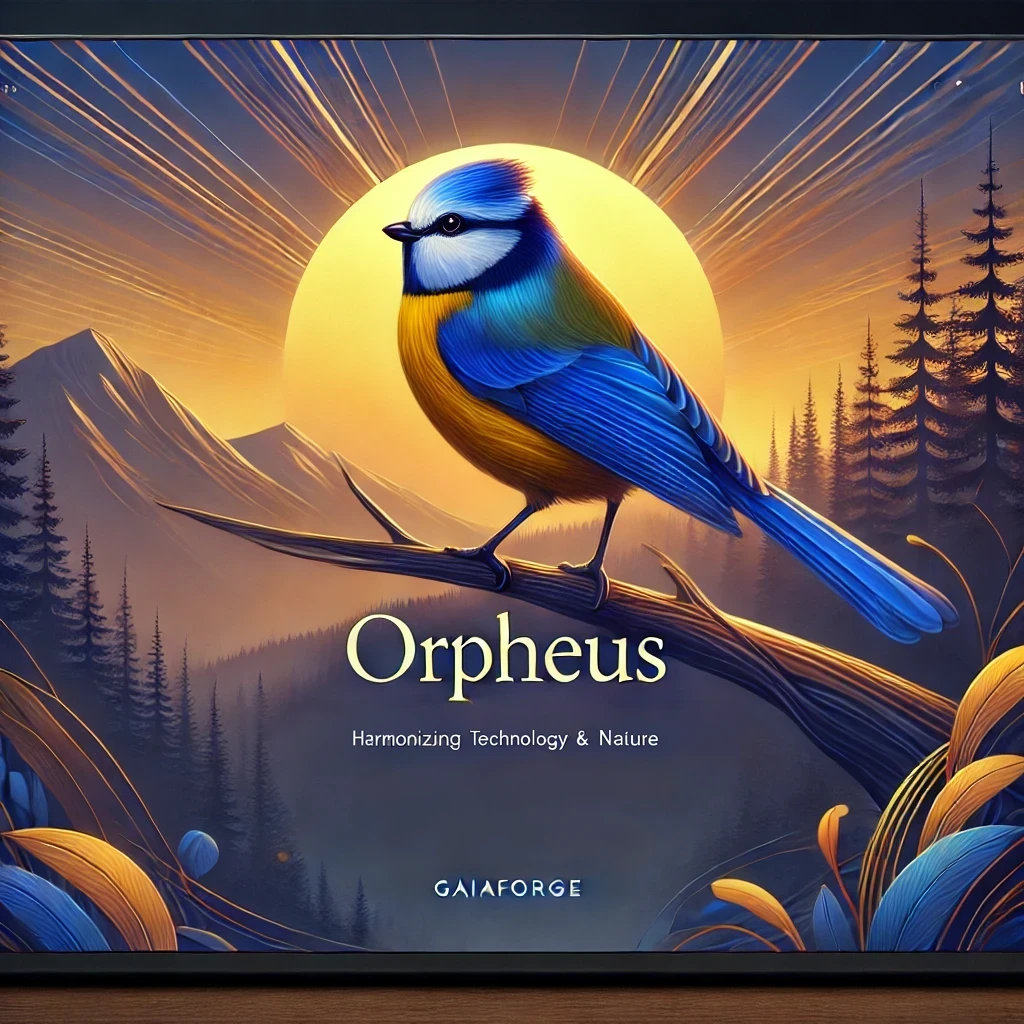
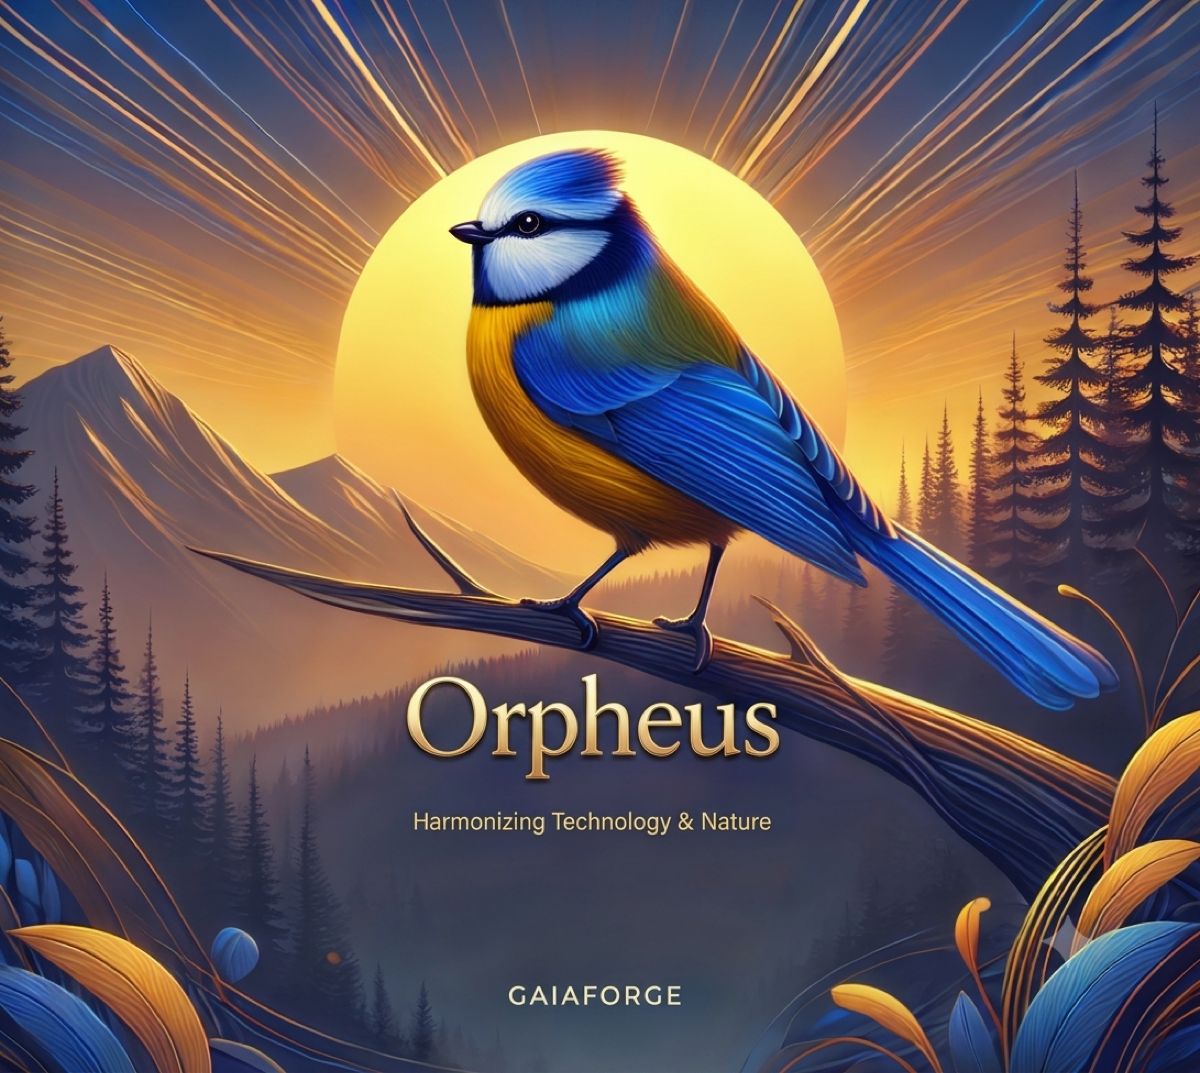
Update Orpheus product image to new artwork
Overwrites images/Orpheus.png in place so og:image, JSON-LD, and the portal
bundles pick up the new art without edits; the visible <img> tags on the
homepage and Orpheus page switch to an optimized JPEG (390KB vs 2.3MB),
which also cache-busts for returning visitors.

diff --git a/html/orpheus.html b/html/orpheus.html
@@ -241,7 +241,7 @@
   <!-- Product Hero Section -->
   <section class="product-hero">
     <div class="container">
-      <img src="images/Orpheus.png" alt="Orpheus bioacoustic playback device" class="fade-in">
+      <img src="images/Orpheus.jpg" alt="Orpheus bioacoustic playback device" class="fade-in">
       <h1 class="fade-in">Orpheus</h1>
       <p class="product-tagline fade-in">Autonomous Bioacoustic Playback System</p>
       <p class="fade-in">Solar-Powered Audio Lure. Autonomous. Built for Wildlife Research.</p>

diff --git a/html/index.html b/html/index.html
@@ -169,7 +169,7 @@
           <!-- Orpheus Card -->
           <div class="glass-product-card">
             <div class="glass-card-image">
-              <img src="images/Orpheus.png" alt="Orpheus Device">
+              <img src="images/Orpheus.jpg" alt="Orpheus Device">
             </div>
             <div class="glass-card-content">
               <h3>Orpheus</h3>
